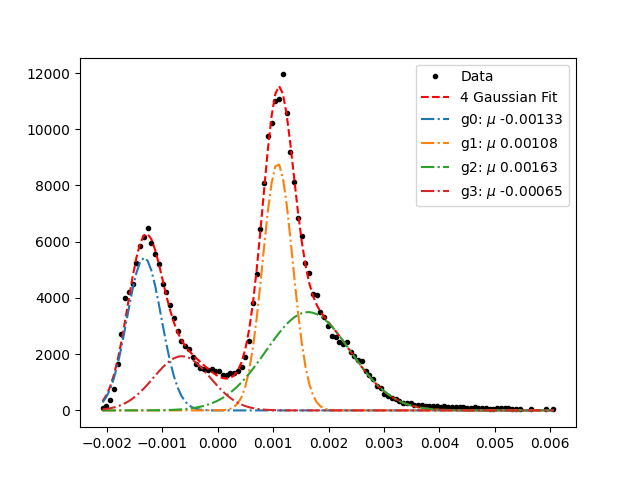
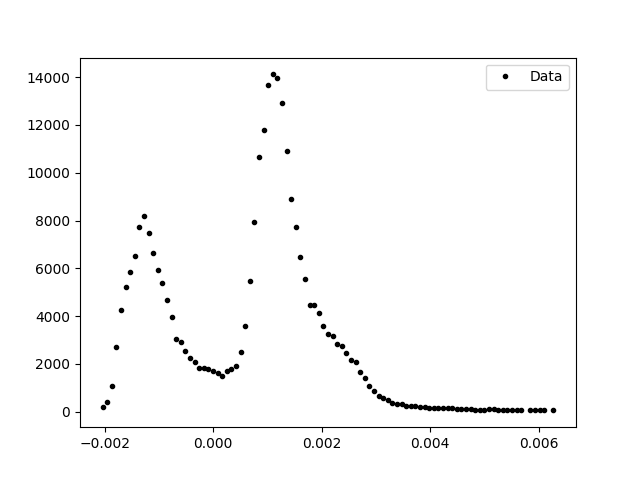
usability improvements

diff --git a/multi_fun_fit.py b/multi_fun_fit.py
@@ -10,6 +10,54 @@ from scipy.optimize import curve_fit
 import matplotlib.pyplot as plt
 from os.path import basename
 
+def find_widths(x, y, peaks, means):
+    # returns the estimated full width at half max of each peak
+    ascend = 1 if means[0] > means[1] else 0
+    descend = 0 if ascend == 1 else 1
+    widths = []
+    for i in range(len(y)-1):
+        if y[i] < peaks[ascend]*2/3 and y[i+1] > peaks[ascend]*2/3:
+            widths.append(2*abs(means[ascend]-x[i]))
+            break
+
+    for i in range(len(y)-1,1,-1):
+        if y[i] < peaks[descend]*2/3 and y[i-1] > peaks[descend]*2/3:
+            widths.append(2*abs(means[descend]-x[i]))
+            break
+
+    return widths
+
+
+def find_peaks(x,y):
+    peaks = []
+    means = []
+    for i in range(1,len(y)-1):
+        if y[i-1] < y[i] > y[i+1]:
+            peaks.append(y[i])
+            means.append(x[i])
+
+    ret_peaks = []
+    ret_means = []
+    for i in range(2):
+        ret_peaks.append(max(peaks))
+        ret_means.append(means[peaks.index(ret_peaks[i])])
+        peaks.pop(peaks.index(ret_peaks[i]))
+        means.pop(means.index(ret_means[i]))
+    return ret_means, ret_peaks 
+
+def get_suggested_params(x,y):
+    # returns the suggested parameters for 2 gaussians
+    means, scales = find_peaks(x,y)
+    widths = find_widths(x, y, scales, means)
+
+    for i in range(2):
+        print(f'suggested gaussian {i}: A {round(scales[i],5)}, $\mu$ {round(means[i],5)}, $\sigma$ {round(widths[i],5)}')
+
+
+def manage_inputs(args):
+    # check the input args for consistency
+    return True
+
 def gauss(x, scale, mean, width):
     # returns a gaussian
     return scale * np.exp(-0.5 * np.multiply(x-mean, x-mean)/(width**2))
@@ -30,27 +78,33 @@ def main():
     # manage command line options
     parser = ap.ArgumentParser(description="options for this script")
 
-    parser.add_argument("-d","--data", type=str, default=None, 
+    parser.add_argument("-d","--data", type=str, default=None, required=True,
                         help="path to dataset (csv) which we will open")
-    parser.add_argument("--name", type=str, default=None, 
+    parser.add_argument("--name", type=str, default=None, required=True,
                         help="name of column to fit")
-    parser.add_argument("--p0", type=float, nargs="*", default=[], 
+    parser.add_argument("--p0", type=float, nargs="*", default=[],
                         help="initial guess")
-    parser.add_argument("--low-bounds", dest="lowbounds", type=float, nargs="*", default=[], 
+    parser.add_argument("--low-bounds", dest="lowbounds", type=float, nargs="*", default=[],
                         help="lower bound of each parameter in the fit")
-    parser.add_argument("--up-bounds", dest="upbounds", type=float, nargs="*", default=[], 
+    parser.add_argument("--up-bounds", dest="upbounds", type=float, nargs="*", default=[],
                         help="upper bound of each parameter in the fit")
     parser.add_argument("--suppress", type=int, default=50,
                         help="suppress the histogram by x counts to get a clean peak")
+    parser.add_argument("--no-fit", default=False, action="store_true", dest="_kNoFit",
+                        help="don't fit, just plot the data")
 
     args = parser.parse_args()
+
+    if not manage_inputs(args):
+        print(f'[ERROR] invalid input parameters')
 
     # read in the data and drop rows without valid data
     df = pd.read_csv(args.data)
     df.dropna(inplace=True)
 
-    # create a histogram of the data
+      # create a histogram of the data
     hist, bins = np.histogram(df[args.name].values, bins="auto")
+    hist, bins = np.histogram(df[args.name].values, bins=int(len(bins)*0.8))
 
     # use the bins to make x values for the center of each bin
     mids = [(bins[i]+bins[i+1])/2 for i in range(len(bins)-1)]
@@ -59,23 +113,32 @@ def main():
     suppressed_hist = [x for x in hist if x > args.suppress]
     suppressed_mids = [mids[i] for i in range(len(mids)) if hist[i] > args.suppress]
 
-    # use the suppressed data and fit with n gaussians
-    popt, pcov = curve_fit(n_gauss, suppressed_mids, suppressed_hist, p0=args.p0, bounds=(args.lowbounds,args.upbounds))
-    # note: we can use pcov to evaluate the error on the fit parameters if necessary
+    n = 0
+    
+    if args._kNoFit:
+        print("the suggested parameters for 2 gaussians are:")
+        get_suggested_params(suppressed_mids, suppressed_hist)
+    else:
+        # use the suppressed data and fit with n gaussians
+        popt, pcov = curve_fit(n_gauss, suppressed_mids, suppressed_hist, p0=args.p0, bounds=(args.lowbounds,args.upbounds))
+        # note: we can use pcov to evaluate the error on the fit parameters if necessary
 
-    # clean things up
-    n = int(len(args.p0)/3)
-    g = [popt[3*i:3*i+3] if i != n-1 else popt[3*i::] for i in range(n)]
-    for i in range(len(g)):
-        g[i] = [round(x,5) for x in g[i]]
+        # clean things up
+        n = int(len(args.p0)/3)
+        g = [popt[3*i:3*i+3] if i != n-1 else popt[3*i::] for i in range(n)]
+        for i in range(len(g)):
+            g[i] = [round(x,5) for x in g[i]]
 
     # plot the result
     fig, ax = plt.subplots(1,1)
     ax.plot(suppressed_mids, suppressed_hist, "k.", label="Data")
-    ax.plot(suppressed_mids, n_gauss(suppressed_mids, *popt), "r--", label=f"{n} Gaussian Fit")
-    for i in range(n):
-        print(f'gaussian {i}: scale = {g[i][0]}, mean = {g[i][1]}, width = {g[i][2]}')
-        ax.plot(suppressed_mids, gauss(suppressed_mids, g[i][0], g[i][1], g[i][2]), '-.', label=f"g{i}: $\mu$ {g[i][1]}")
+    if not args._kNoFit:
+        ax.plot(suppressed_mids, n_gauss(suppressed_mids, *popt), "r--", label=f"{n} Gaussian Fit")
+        for i in range(n):
+            print(f'gaussian {i}: scale = {g[i][0]}, mean = {g[i][1]}, width = {g[i][2]}')
+            ax.plot(suppressed_mids, gauss(suppressed_mids, g[i][0], g[i][1], g[i][2]), '-.', label=f"g{i}: $\mu$ {g[i][1]}")
+
+    
 
     ax.legend()
 

diff --git a/README.md b/README.md
@@ -17,7 +17,18 @@ guess and bounds need to be entered in the following format:
 
 The code will fit an unlimited number of gaussians
 
-`python multi_fun_fit.py -d data/050522_file01_R1_Processed.csv --name current_0.01s_average --p0 6000 -0.0015 0.00044 12000 0.0015 0.00044 3000 0.001 0.001 2000 -0.001 0.001 --low-bounds 0 -1 0 0 -1 0 0 -1 0 0 -1 0 --up-bounds 999999 1 1 999999 1 1 999999 1 1 999999 1 1`
+`python multi_fin_fit.py -d data/050522_file01_R1_Processed.csv --name current_0.01s_average --no-fit`
+
+this returns the following suggested parameters:
+
+```
+suggested gaussian 0: A 14113, $\mu$ 0.0011, $\sigma$ 0.00068  
+suggested gaussian 1: A 8188, $\mu$ -0.00128, $\sigma$ 0.00068
+```
+
+so we run with these suggestions as follows:
+
+`python multi_fun_fit.py -d data/050522_file01_R1_Processed.csv --name current_0.01s_average --p0 14113 0.0011 0.00068 8188 -0.00128 0.00068 --low-bounds 0 -1 0 0 -1 0 --up-bounds 999999 1 1 999999 1 1`
 
 
 ![Double gaussian fit to suppressed data](https://github.com/neilSchroeder/multi-function-fitting/blob/main/plots/two_gauss_fit_050522_file01_R1_Processed.png)
